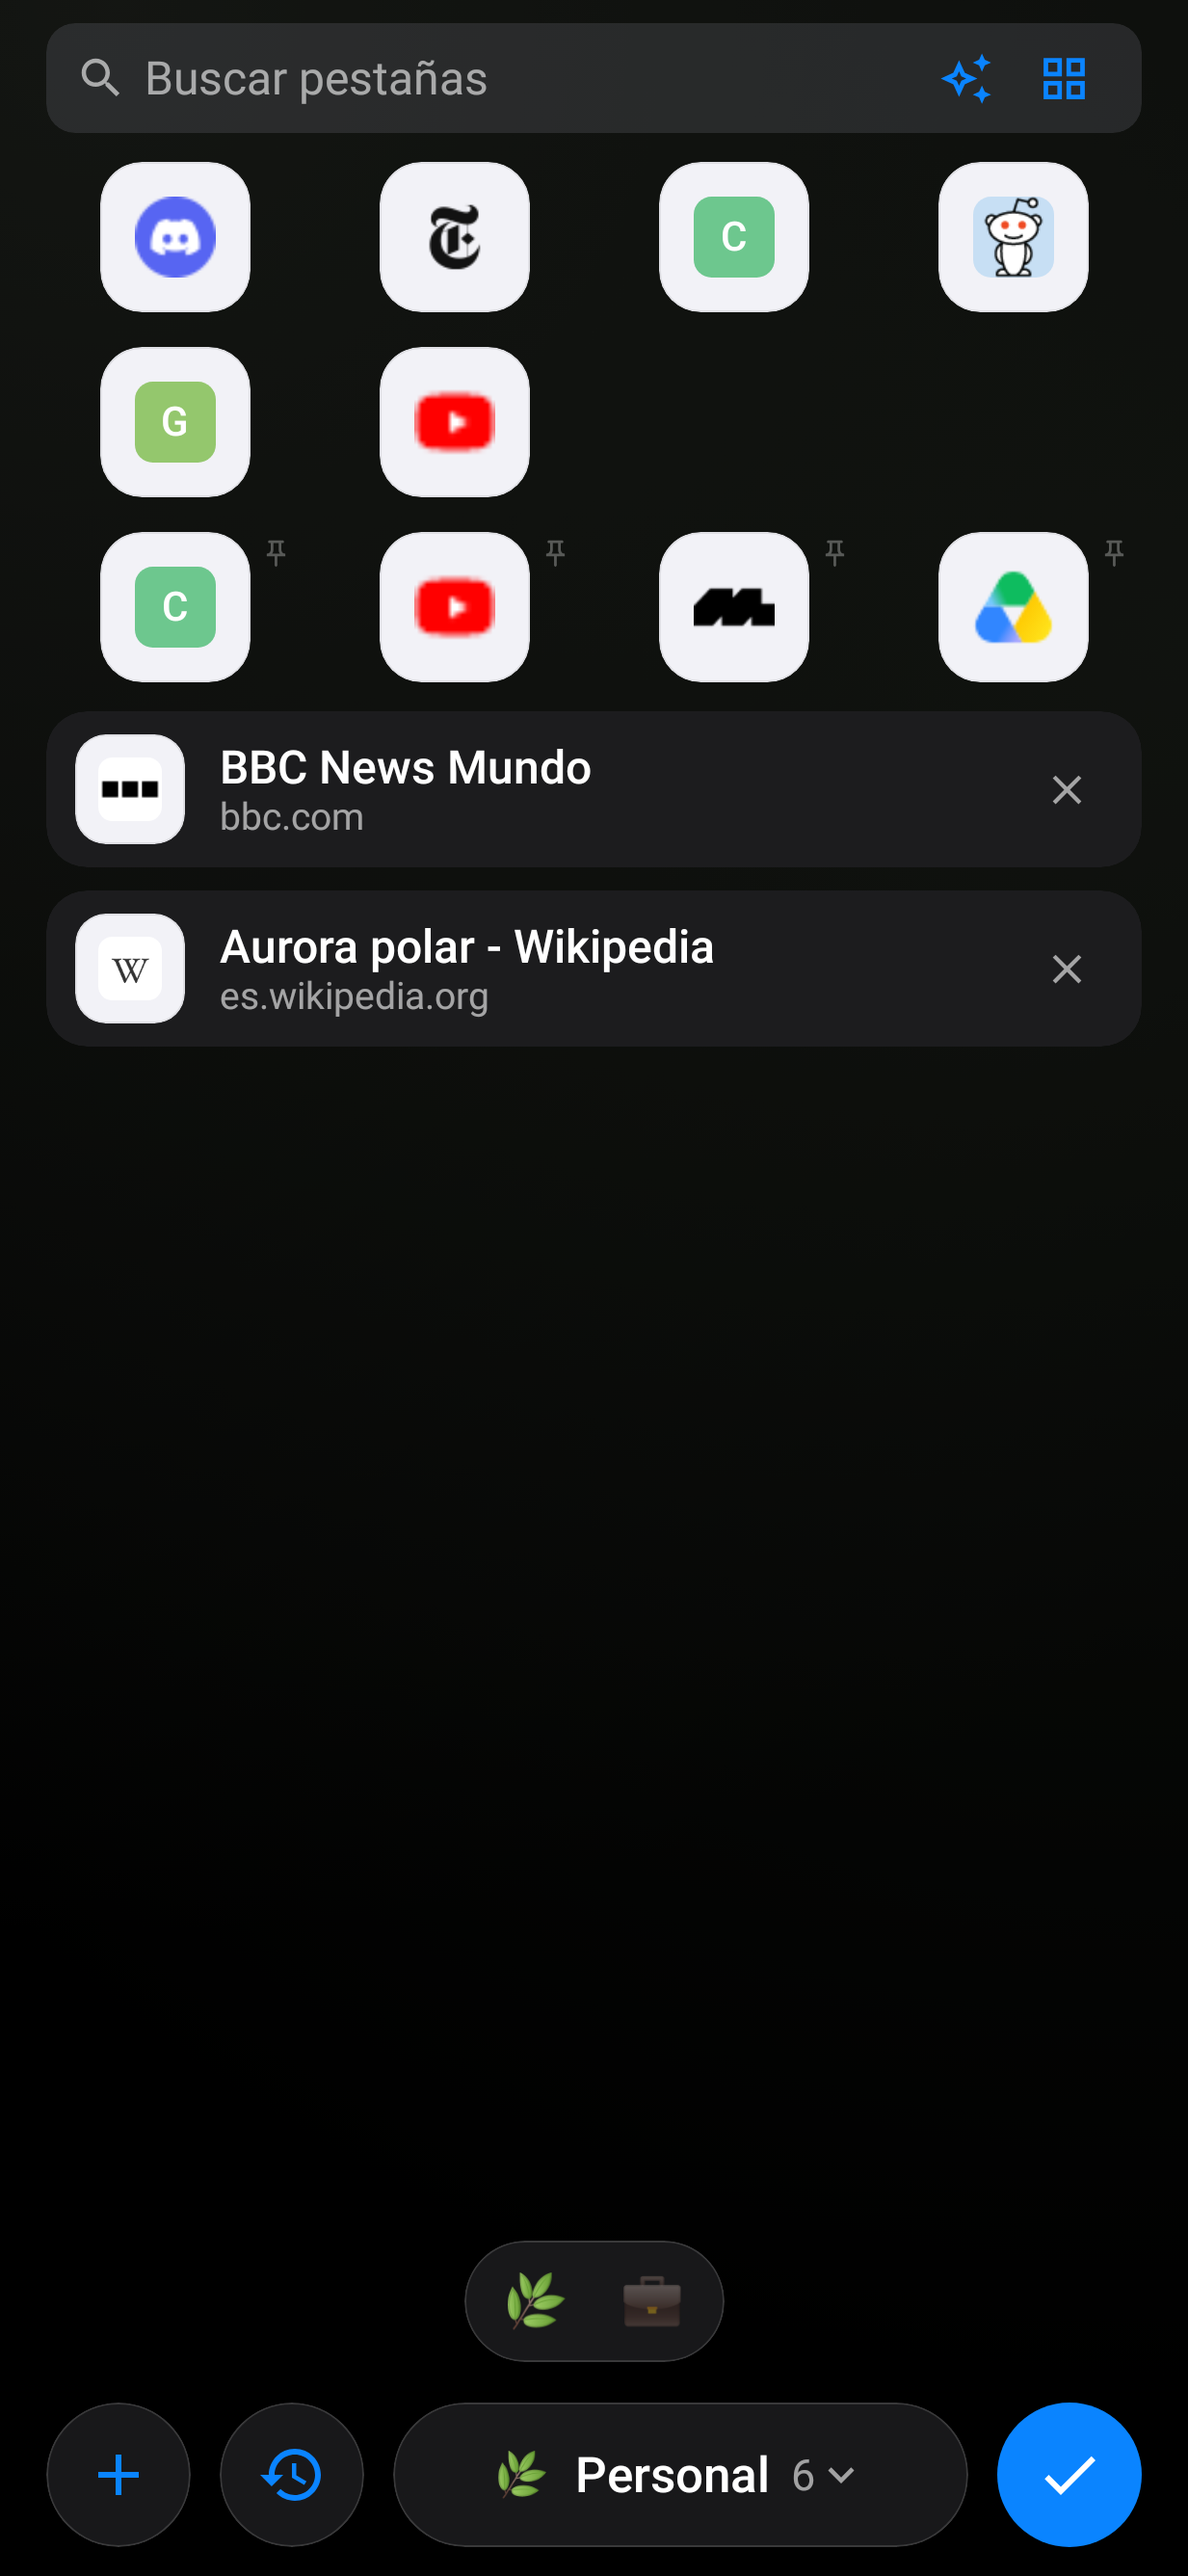
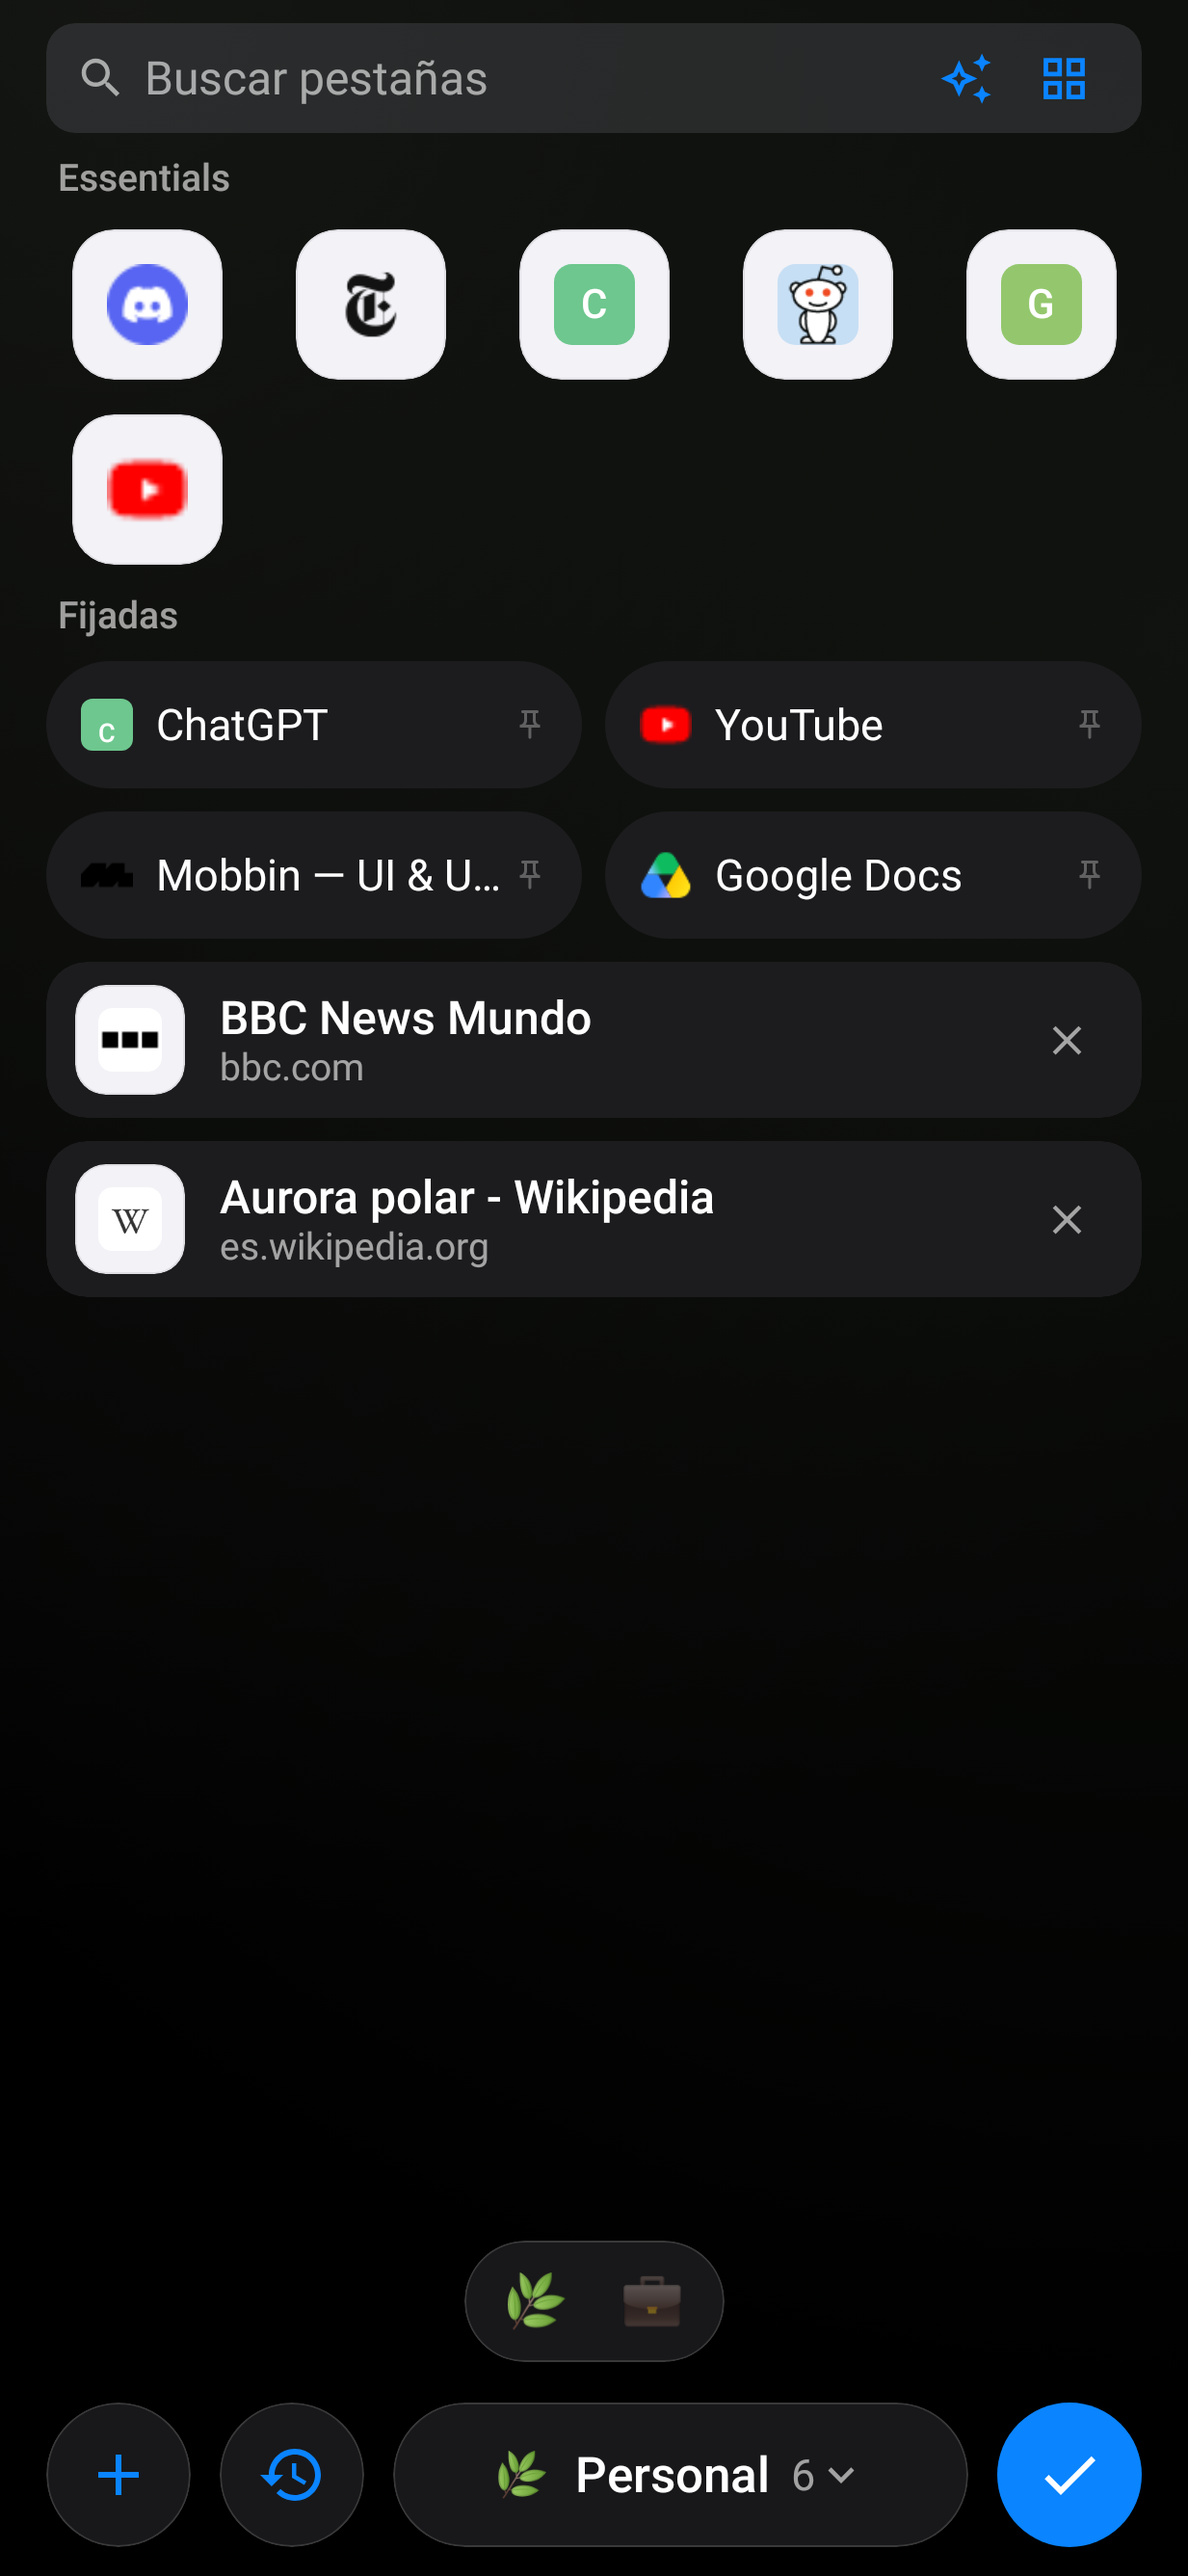
Android: Essentials, fijadas y carpetas se distinguen en la vista de pestañas
- Cada sección lleva su título: "Essentials" y "Fijadas".
- Essentials: mosaicos grandes, como en Zen.
- Fijadas: píldoras con ícono, nombre y chincheta, en columnas según el ancho, como la lista de Zen.
- Carpetas: la etiqueta de debajo es una píldora del color de la carpeta, con su ícono, nombre y número de pestañas, como en la fila de pestañas.
- Página de inicio:
  - Los favoritos y los más visitados usan más columnas en tableta.
  - Con la barra arriba, la página empieza debajo de ella, así que el título "Favoritos" ya no queda tapado.

Claude-Session: https://claude.ai/code/session_01NYtWFK9ernQgkQbtZWdHMY

diff --git a/android/app/src/main/java/app/kaze/browser/ui/screens/TabsScreen.kt b/android/app/src/main/java/app/kaze/browser/ui/screens/TabsScreen.kt
@@ -283,12 +283,12 @@ fun TabsScreen(
             }
             if (essentials.isNotEmpty() && query.isBlank()) {
                 item(span = { GridItemSpan(maxLineSpan) }, key = "essentials") {
-                    PinnedStrip(essentials, store.selectedTabId, onOpen, onTabMenu, essential = true)
+                    Column { PinnedStrip(essentials, store.selectedTabId, onOpen, onTabMenu, essential = true) }
                 }
             }
             if (pinned.isNotEmpty() && query.isBlank()) {
                 item(span = { GridItemSpan(maxLineSpan) }, key = "pinned") {
-                    PinnedStrip(pinned, store.selectedTabId, onOpen, onTabMenu)
+                    Column { PinnedStrip(pinned, store.selectedTabId, onOpen, onTabMenu) }
                 }
             }
             // Pestañas sueltas y carpetas (una carpeta ocupa el lugar de su primera pestaña).
@@ -421,6 +421,38 @@ fun TabsScreen(
 @Composable
 private fun PinnedStrip(tabs: List<Tab>, selectedId: String?, onOpen: (Tab) -> Unit, onMenu: (Tab) -> Unit, essential: Boolean = false) {
     val k = LocalKaze.current
+    Text(
+        if (essential) "Essentials" else "Fijadas", style = KazeType.footnote.copy(fontWeight = FontWeight.SemiBold), color = k.ink55,
+        modifier = Modifier.padding(start = 4.dp, bottom = 8.dp),
+    )
+    if (!essential) {
+        // Fijadas: píldoras con ícono y nombre (como la lista de Zen), distintas de los Essentials y de las carpetas.
+        androidx.compose.foundation.layout.BoxWithConstraints {
+            val cols = maxOf(2, ((maxWidth + 8.dp) / 220.dp).toInt())
+            Column(verticalArrangement = Arrangement.spacedBy(8.dp)) {
+                tabs.chunked(cols).forEach { row ->
+                    Row(horizontalArrangement = Arrangement.spacedBy(8.dp)) {
+                        row.forEach { t ->
+                            Row(
+                                Modifier.weight(1f).height(44.dp).clip(RoundedCornerShape(50))
+                                    .background(if (t.id == selectedId) k.accent.copy(alpha = 0.18f) else k.card)
+                                    .tap({ onOpen(t) }, { onMenu(t) }).padding(horizontal = 12.dp)
+                                    .semantics { contentDescription = t.displayTitle },
+                                verticalAlignment = Alignment.CenterVertically,
+                            ) {
+                                Favicon(t.pinnedUrl ?: t.url, 18.dp)
+                                Spacer(Modifier.width(8.dp))
+                                Text(t.displayTitle, style = KazeType.subhead, color = k.ink, maxLines = 1, overflow = TextOverflow.Ellipsis, modifier = Modifier.weight(1f))
+                                Icon(Icons.Outlined.PushPin, null, tint = k.ink35, modifier = Modifier.size(12.dp))
+                            }
+                        }
+                        repeat(cols - row.size) { Spacer(Modifier.weight(1f)) }
+                    }
+                }
+            }
+        }
+        return
+    }
     // Columnas según el ancho (4 en teléfono, más en tableta): los íconos no quedan perdidos en columnas enormes.
     androidx.compose.foundation.layout.BoxWithConstraints {
     val cols = maxOf(4, ((maxWidth + 8.dp) / 76.dp).toInt())
@@ -603,11 +635,15 @@ private fun FolderCard(name: String, tabs: List<Tab>, list: Boolean, highlight: 
             }
         }
         Spacer(Modifier.height(6.dp))
-        Row(Modifier.padding(horizontal = 4.dp), verticalAlignment = Alignment.CenterVertically) {
-            Icon(Icons.Outlined.Folder, null, tint = color, modifier = Modifier.size(15.dp))
-            Spacer(Modifier.width(6.dp))
-            Text(name, style = KazeType.footnote.copy(fontWeight = FontWeight.SemiBold), color = k.ink, maxLines = 1, overflow = TextOverflow.Ellipsis, modifier = Modifier.weight(1f, fill = false))
-            Text("  ${tabs.size}", style = KazeType.footnote, color = k.ink55)
+        // Etiqueta de color, igual que en la fila de pestañas: se distingue de una pestaña de un vistazo.
+        Row(
+            Modifier.clip(RoundedCornerShape(50)).background(color).padding(horizontal = 10.dp, vertical = 4.dp),
+            verticalAlignment = Alignment.CenterVertically,
+        ) {
+            Icon(Icons.Outlined.Folder, null, tint = Color.White, modifier = Modifier.size(14.dp))
+            Spacer(Modifier.width(5.dp))
+            Text(name, style = KazeType.footnote.copy(fontWeight = FontWeight.SemiBold), color = Color.White, maxLines = 1, overflow = TextOverflow.Ellipsis, modifier = Modifier.weight(1f, fill = false))
+            Text("  ${tabs.size}", style = KazeType.footnote, color = Color.White.copy(alpha = 0.8f))
         }
     }
 }

diff --git a/android/app/src/main/java/app/kaze/browser/ui/screens/StartPage.kt b/android/app/src/main/java/app/kaze/browser/ui/screens/StartPage.kt
@@ -166,16 +166,20 @@ private fun Section(title: String) {
 
 @Composable
 private fun TileGrid(items: List<Pair<String, String>>, onClick: (Int, Boolean) -> Unit) {
+    // Columnas según el ancho: 4 en teléfono, más en tableta (los mosaicos no quedan perdidos).
+    androidx.compose.foundation.layout.BoxWithConstraints {
+    val cols = maxOf(4, (maxWidth / 110.dp).toInt())
     Column(Modifier.padding(horizontal = 12.dp), verticalArrangement = Arrangement.spacedBy(14.dp)) {
-        items.withIndex().chunked(4).forEach { row ->
+        items.withIndex().chunked(cols).forEach { row ->
             Row(Modifier.fillMaxWidth()) {
                 row.forEach { (i, item) ->
                     Box(Modifier.weight(1f), contentAlignment = Alignment.TopCenter) {
                         SiteTile(item.first, item.second, onClick = { onClick(i, false) }, onLongClick = { onClick(i, true) })
                     }
                 }
-                repeat(4 - row.size) { Spacer(Modifier.weight(1f)) }
+                repeat(cols - row.size) { Spacer(Modifier.weight(1f)) }
             }
         }
+    }
     }
 }

diff --git a/android/app/src/main/java/app/kaze/browser/MainActivity.kt b/android/app/src/main/java/app/kaze/browser/MainActivity.kt
@@ -678,7 +678,10 @@ class MainActivity : ComponentActivity() {
                         .then(if (showBar || ui.fullscreen) Modifier else Modifier.navigationBarsPadding()),
                 )
 
-                if (tab != null && tab.isStart && !showTabs) {
+                if (tab != null && tab.isStart && !showTabs) Box(
+                    // Con la barra arriba (tableta), la página de inicio empieza debajo de ella: nada queda tapado.
+                    Modifier.padding(top = with(density) { if (barTop) barExpandedPx.toDp() else 0.dp }),
+                ) {
                     StartPage(
                         private = tab.isPrivate,
                         onOpenUrl = { url -> app.pool.ensure(tab).loadUri(url); store.onUrl(tab, url) },
